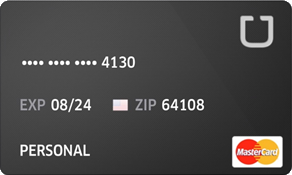
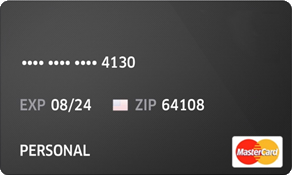
update services update appID build changes: 1. reset the acknowledgment of card terms so it is like they have never been accepted 2. remove hardcoded value 3. Update card image 4. remove dead text link "Edit Information" 5. Add a picture of the credit card on Request Ride screen, Change the word 'Di

Changed region(s): [[0.8014, 0.0857, 0.9555, 0.2857]]

diff --git a/www/app/services/services.js b/www/app/services/services.js
@@ -23,10 +23,12 @@ angular.module('climeride.services', [])
 
         var commonService = {};
 
-        commonService.agreementAccepted = false;
+        appConfig.agreementAccepted = typeof localStorage.agreementAccepted == "undefined" ? false : localStorage.agreementAccepted;
 
-        commonService.goBack = function() {
-            
+        appConfig.reminderBoxShow = true;
+
+        commonService.goBack = function () {
+
         }
 
 
@@ -34,38 +36,35 @@ angular.module('climeride.services', [])
         {
             Id: 1,
             Title: "LINKS INSURANCE SERVICE",
-            GooglePlay: "me.snapsheet.gmac",
-            AppStore: "id574846721"
+            GooglePlay: "me.snapsheet.gmachfghfghgf65",
+            AppStore: "5748467254dfghfdhfghfg1"
         },
         {
             Id: 2,
-            Title: "LINKS INSURANCE SERVICE 2"
+            Title: "LINKS INSURANCE SERVICE 2",
+            GooglePlay: "me.snapsheet.gmachfghfghgf6yrt5",
+            AppStore: "5748467254dfghfdhfgyrtyhfg1"
         },
-            {
-                Id: 3,
-                Title: "National General Insurance"
-            }
-            
+         {
+             Id: 3,
+             Title: "National General Insurance",
+             GooglePlay: "me.snapsheet.gmac",
+             AppStore: "574846721"
+         }
+
         ];
 
         //commonService.init = function() {
-            
+
         //}
 
         appConfig.selectedCarrier = commonService.carriers[0];
-
-        commonService.storeLinks = [
-            {
-                Id: 3,
-                
-            }
-        ];
 
 
         commonService.setUberId = function (value) {
             appConfig.uberId = value;
         };
-        
+
         commonService.setLyftId = function (value) {
             appConfig.lyftId = value;
         };
@@ -73,32 +72,32 @@ angular.module('climeride.services', [])
         commonService.getUberId = function () {
             return appConfig.uberId;
         };
-        
+
         commonService.getLyftId = function () {
             return appConfig.lyftId;
         };
-        
+
         //---------------------------
         commonService.setClaimNumber = function (value) {
             appConfig.claimNumber = value;
         };
-        
+
         commonService.setHolderName = function (value) {
             appConfig.holderName = value;
         };
-        
+
         commonService.setZipCode = function (value) {
             appConfig.zipCode = value;
         };
-        
+
         commonService.getClaimNumber = function () {
             return appConfig.claimNumber;
         };
-        
+
         commonService.getHolderName = function () {
             return appConfig.holderName;
         };
-        
+
         commonService.getZipCode = function () {
             return appConfig.zipCode;
         };
@@ -111,13 +110,30 @@ angular.module('climeride.services', [])
             appConfig.selectedCarrier = value;
         };
 
+        commonService.setReminderBoxShowStatus = function (value) {
+            appConfig.reminderBoxShow = value;
+        };
 
-        commonService.reminderBoxShow = true;
-        
+        commonService.getReminderBoxShowStatus = function () {
+            return appConfig.reminderBoxShow;
+        };
 
-        //commonService.isAgreement
+        commonService.setAgreementAccepted = function () {
+            localStorage.agreementAccepted = true;
+            appConfig.agreementAccepted = true;
+        };
+
+        commonService.resetAgreementAccepted = function () {
+            localStorage.agreementAccepted = false;
+            appConfig.agreementAccepted = false;
+        };
+
+        commonService.getAgreementAccepted = function () {
+            return appConfig.agreementAccepted;
+        };
 
 
+        commonService.appConfig = appConfig;
 
         return commonService;
     }]);

diff --git a/www/app/controllers/controllers.js b/www/app/controllers/controllers.js
@@ -4,10 +4,10 @@ angular.module('climeride.controllers', [])
             $('#imgCtr').css({ 'line-height': $(window).height() - $('#content-ctr').height() - 20 + 'px' });
         };
 
-        $scope.agreementAccepted = commonService.agreementAccepted;
+        $scope.agreementAccepted = commonService.getAgreementAccepted();
 
         $scope.setAgree = function () {
-            commonService.agreementAccepted = true;
+            commonService.setAgreementAccepted();
             $scope.agreementAccepted = true;
         }
 
@@ -19,7 +19,7 @@ angular.module('climeride.controllers', [])
     }])
     .controller('requestrideCtrl', ['$scope', '$http', '$location', 'commonService', function ($scope, $http, $location, commonService) {
 
-        $scope.reminderBoxShow = commonService.reminderBoxShow;
+        $scope.reminderBoxShow = commonService.getReminderBoxShowStatus();
 
 
         $scope.init = function () {
@@ -27,7 +27,7 @@ angular.module('climeride.controllers', [])
         };
 
 
-        $scope.init();
+        window.setTimeout($scope.init,50);
 
         $scope.goToPage = function (pageName) {
             $location.path(pageName);
@@ -41,7 +41,8 @@ angular.module('climeride.controllers', [])
 
         $scope.reminderBoxHide = function () {
             $scope.reminderBoxShow = false;
-            commonService.reminderBoxShow = false;
+            commonService.setReminderBoxShowStatus(false);
+            window.setTimeout($scope.init, 50);
         }
 
 //        var onConfirm = function (buttonIndex) {
@@ -91,7 +92,9 @@ angular.module('climeride.controllers', [])
         //        $scope.greeting = "dsds";
         //
 
-        $scope.agreementAccepted = commonService.agreementAccepted;
+        $scope.agreementAccepted = commonService.getAgreementAccepted();
+
+        $scope.appConfig = commonService.appConfig;
 
         $scope.init = function () {
 
@@ -184,9 +187,9 @@ angular.module('climeride.controllers', [])
             $scope.width = window.screen.width;
             $scope.devicePixelRatio = window.devicePixelRatio;
             
-//            $scope.claimNumber = commonService.getClaimNumber();
-//            $scope.policeHolder = commonService.getHolderName();
-//            $scope.zipCode = commonService.getZipCode();
+            $scope.claimNumber = commonService.getClaimNumber();
+            $scope.policeHolder = commonService.getHolderName();
+            $scope.zipCode = commonService.getZipCode();
             
             if (typeof device == "undefined") {
                 return;
@@ -291,12 +294,13 @@ angular.module('climeride.controllers', [])
 
         $scope.carrierChange = function (value) {
             commonService.setSelectedCarrier(value);
+            commonService.resetAgreementAccepted();
         };
 
         $scope.goToPage = function (pageName) {
-//            commonService.setClaimNumber($scope.claimNumber);
-//            commonService.setHolderName($scope.policeHolder);
-//            commonService.setZipCode($scope.zipCode);
+            commonService.setClaimNumber($scope.claimNumber);
+            commonService.setHolderName($scope.policeHolder);
+            commonService.setZipCode($scope.zipCode);
 
             $location.path(pageName);
         };

diff --git a/www/app/partials/requestride.html b/www/app/partials/requestride.html
@@ -5,11 +5,15 @@
     </div>
 
     <div id="content-ctr" class="content-container" style="color: white;">
-        <div class="gray-line" ng-show="reminderBoxShow"></div>
-        <div ng-show="reminderBoxShow" style="width: 70%;margin: 0 auto;border: 1px solid gray; border-radius: 20px;padding: 20px;">
-            Please update your ride share provider with your virtual credit card
-            <div ng-click="reminderBoxHide()" style="color: #EB5767; text-decoration: underline; text-align: right;">
-                Dismiss
+        <div ng-show="reminderBoxShow">
+            <div class="gray-line"></div>
+            <img class="credit-card-img" />
+            <div class="gray-line"></div>
+            <div style="width: 70%; margin: 0 auto; border: 1px solid gray; border-radius: 20px; padding: 20px;">
+                Please update your ride share provider with your virtual credit card
+                <div ng-click="reminderBoxHide()" style="color: #EB5767; text-decoration: underline; text-align: right;">
+                    Completed
+                </div>
             </div>
         </div>
         <div class="gray-line"></div>
@@ -18,14 +22,14 @@
             <div class="float-left">
                 <div class="btn-app-status" ng-class="getAppStatusClass(lyftIsInstalled)" ng-click="selectApp('Lyft')">
                     <div>
-                        <img src="./../www/img/lyft-logo.png" />
+                        <img src="./../www/img/lyft-logo.png"/>
                     </div>
                 </div>
             </div>
             <div class="float-right">
                 <div class="btn-app-status" ng-class="getAppStatusClass(uberIsInstalled)" ng-click="selectApp('Uber')">
                     <div>
-                        <img src="./../www/img/uber-logo.png" style="height: 1.8vh; width: auto" />
+                        <img src="./../www/img/uber-logo.png" style="height: 1.8vh; width: auto"/>
                     </div>
                 </div>
             </div>

diff --git a/www/app/partials/welcome.html b/www/app/partials/welcome.html
@@ -8,21 +8,21 @@
         <div class="input-container">
             <div style="text-align: left; margin-bottom: 10px">
                 <span style="font-size: 1.3em" class="info-icon">Your information:</span>
-                <span class="float-right" style="color: #EB5767; font-size: 0.8em ;text-decoration: underline">Edit Information</span>
+                <!--<span class="float-right" style="color: #EB5767; font-size: 0.8em ;text-decoration: underline">Edit Information</span>-->
             </div>
             <div class="clearfix"></div>
             <div class="table-info">
                 <div>
                     <span>Carrier:</span>
-                    <span>Link Insurance Services</span>
+                    <span>{{appConfig.selectedCarrier.Title}}</span>
                 </div>
                 <div>
                     <span>Claim Number</span>
-                    <span>3717-526617-04099</span>
+                    <span>{{appConfig.claimNumber}}</span>
                 </div>
                 <div>
                     <span>Billing Zipcode</span>
-                    <span>30033</span>
+                    <span>{{appConfig.zipCode}}</span>
                 </div>
             </div>
         </div>
